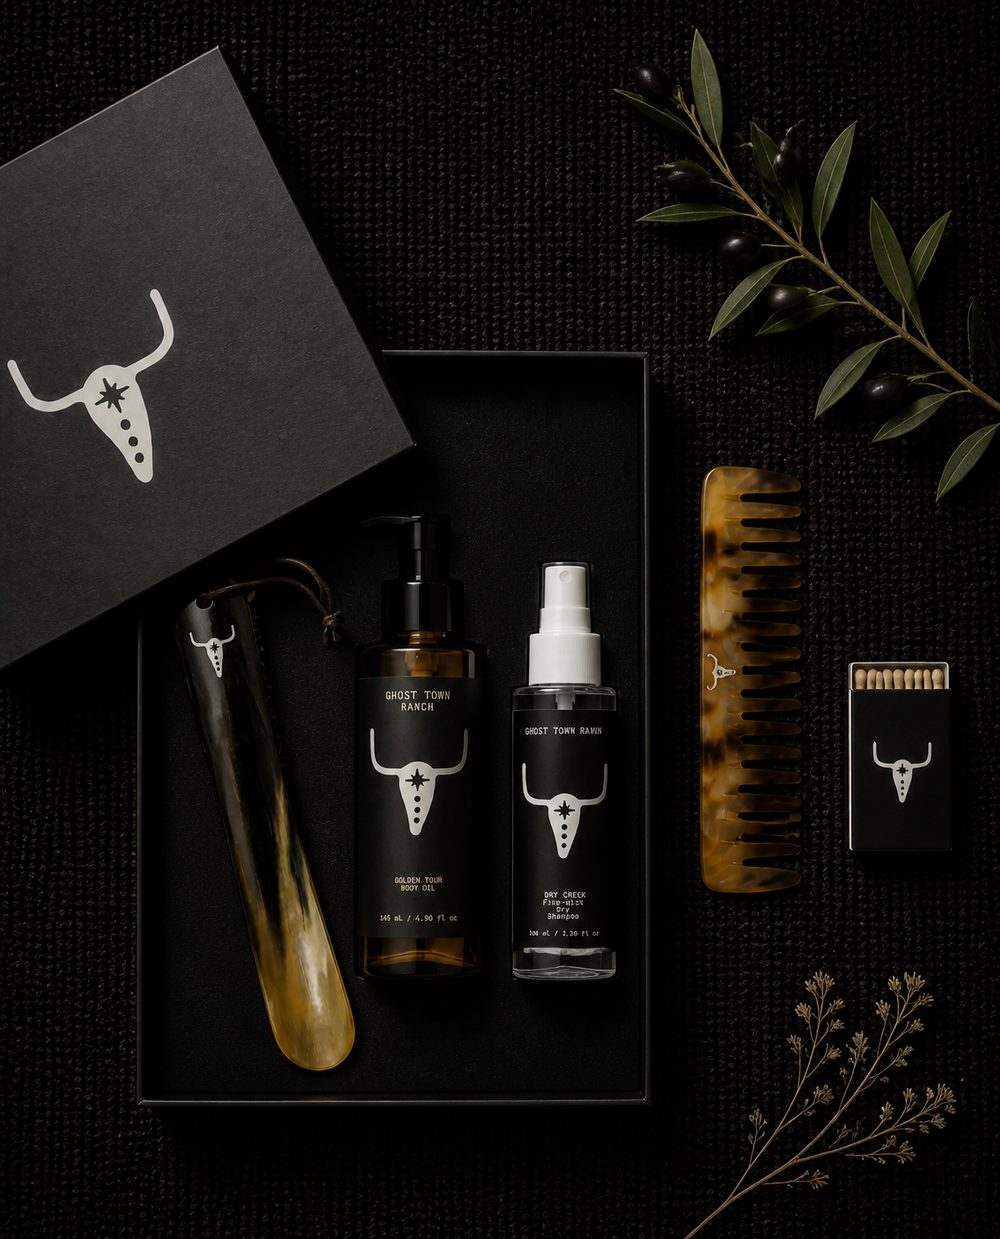
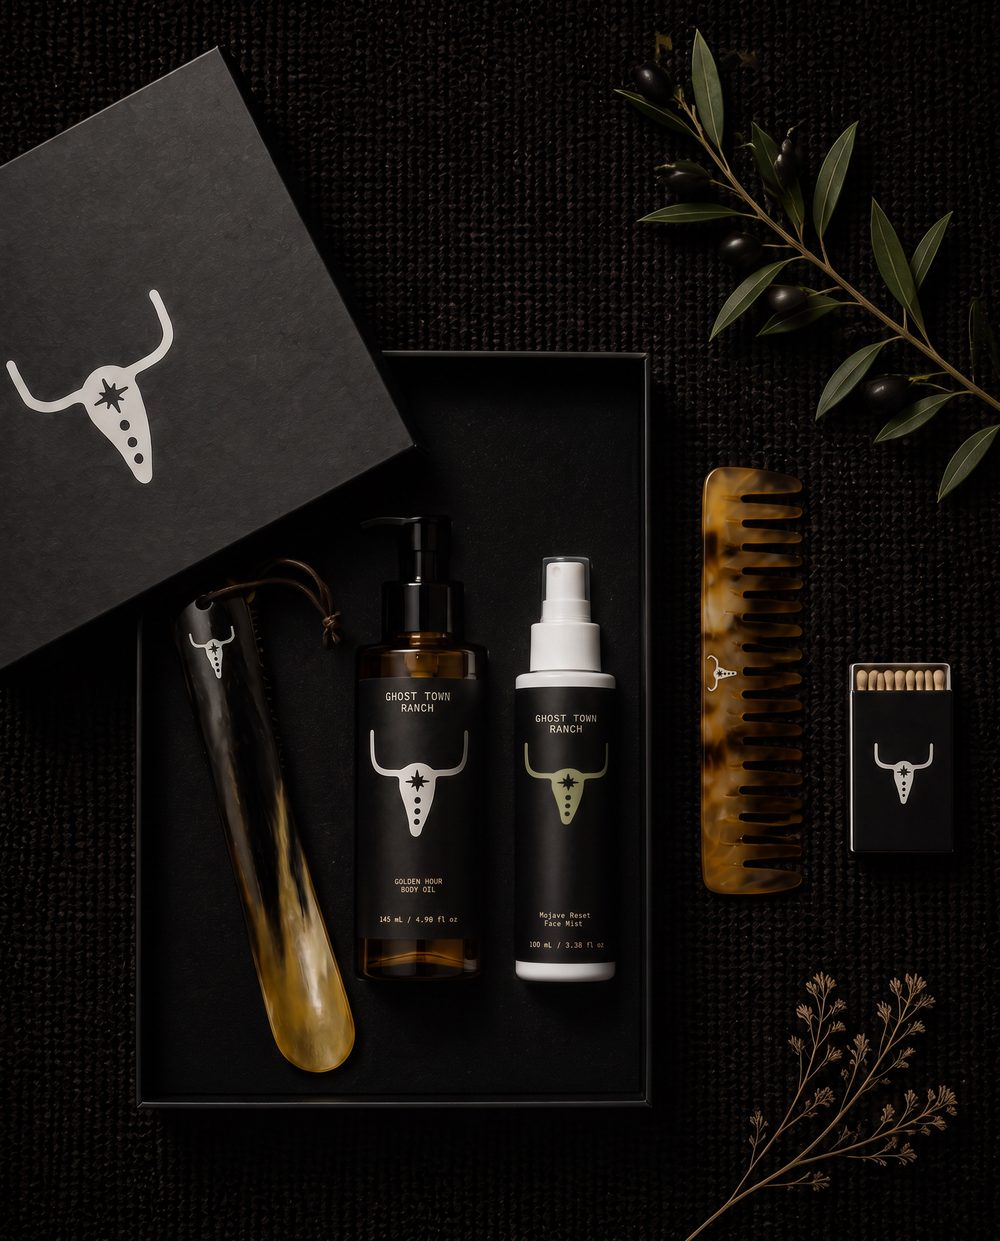
Homepage: final Morning and Out the Door images
Claude-Session: https://claude.ai/code/session_012NRWdKkyMvqGGJrysnMaPF

diff --git a/index.html b/index.html
@@ -901,11 +901,11 @@
   </div>
   <div class="road-grid">
     <a class="road-tile" href="https://ghosttownranch.com/hair/">
-      <div class="road-media"><img src="/media/collection-morning.jpg" alt="Horn shoehorn, horn comb, Golden Hour body oil and Dry Creek hair mist in a black Bull box" loading="lazy"></div>
-      <div class="road-cap">Morning<span>Shoehorn, comb, Golden Hour, Dry Creek</span></div>
+      <div class="road-media"><img src="/media/collection-morning.jpg" alt="Horn shoehorn, horn comb, Golden Hour body oil and Mojave Reset face mist in a black Bull box" loading="lazy"></div>
+      <div class="road-cap">Morning<span>Shoehorn, comb, Golden Hour, Mojave Reset</span></div>
     </a>
     <a class="road-tile" href="https://ghosttownranch.com/routines/">
-      <div class="road-media"><img src="/media/collection-out-the-door.jpg" alt="White Day Ride bag with the horn shoehorn keyring, horn hairbrush, Silk Skin, Drawn Line, Dry Creek and Ranch Water" loading="lazy"></div>
+      <div class="road-media"><img src="/media/collection-out-the-door.jpg" alt="White Day Ride bag with the horn shoehorn keyring, horn hairbrush, hand cream, Drawn Line, a face mist and Ranch Water" loading="lazy"></div>
       <div class="road-cap">Out the Door<span>Day Ride, keyring, brush, Dry Creek</span></div>
     </a>
     <a class="road-tile" href="https://ghosttownranch.com/wash-house/">
